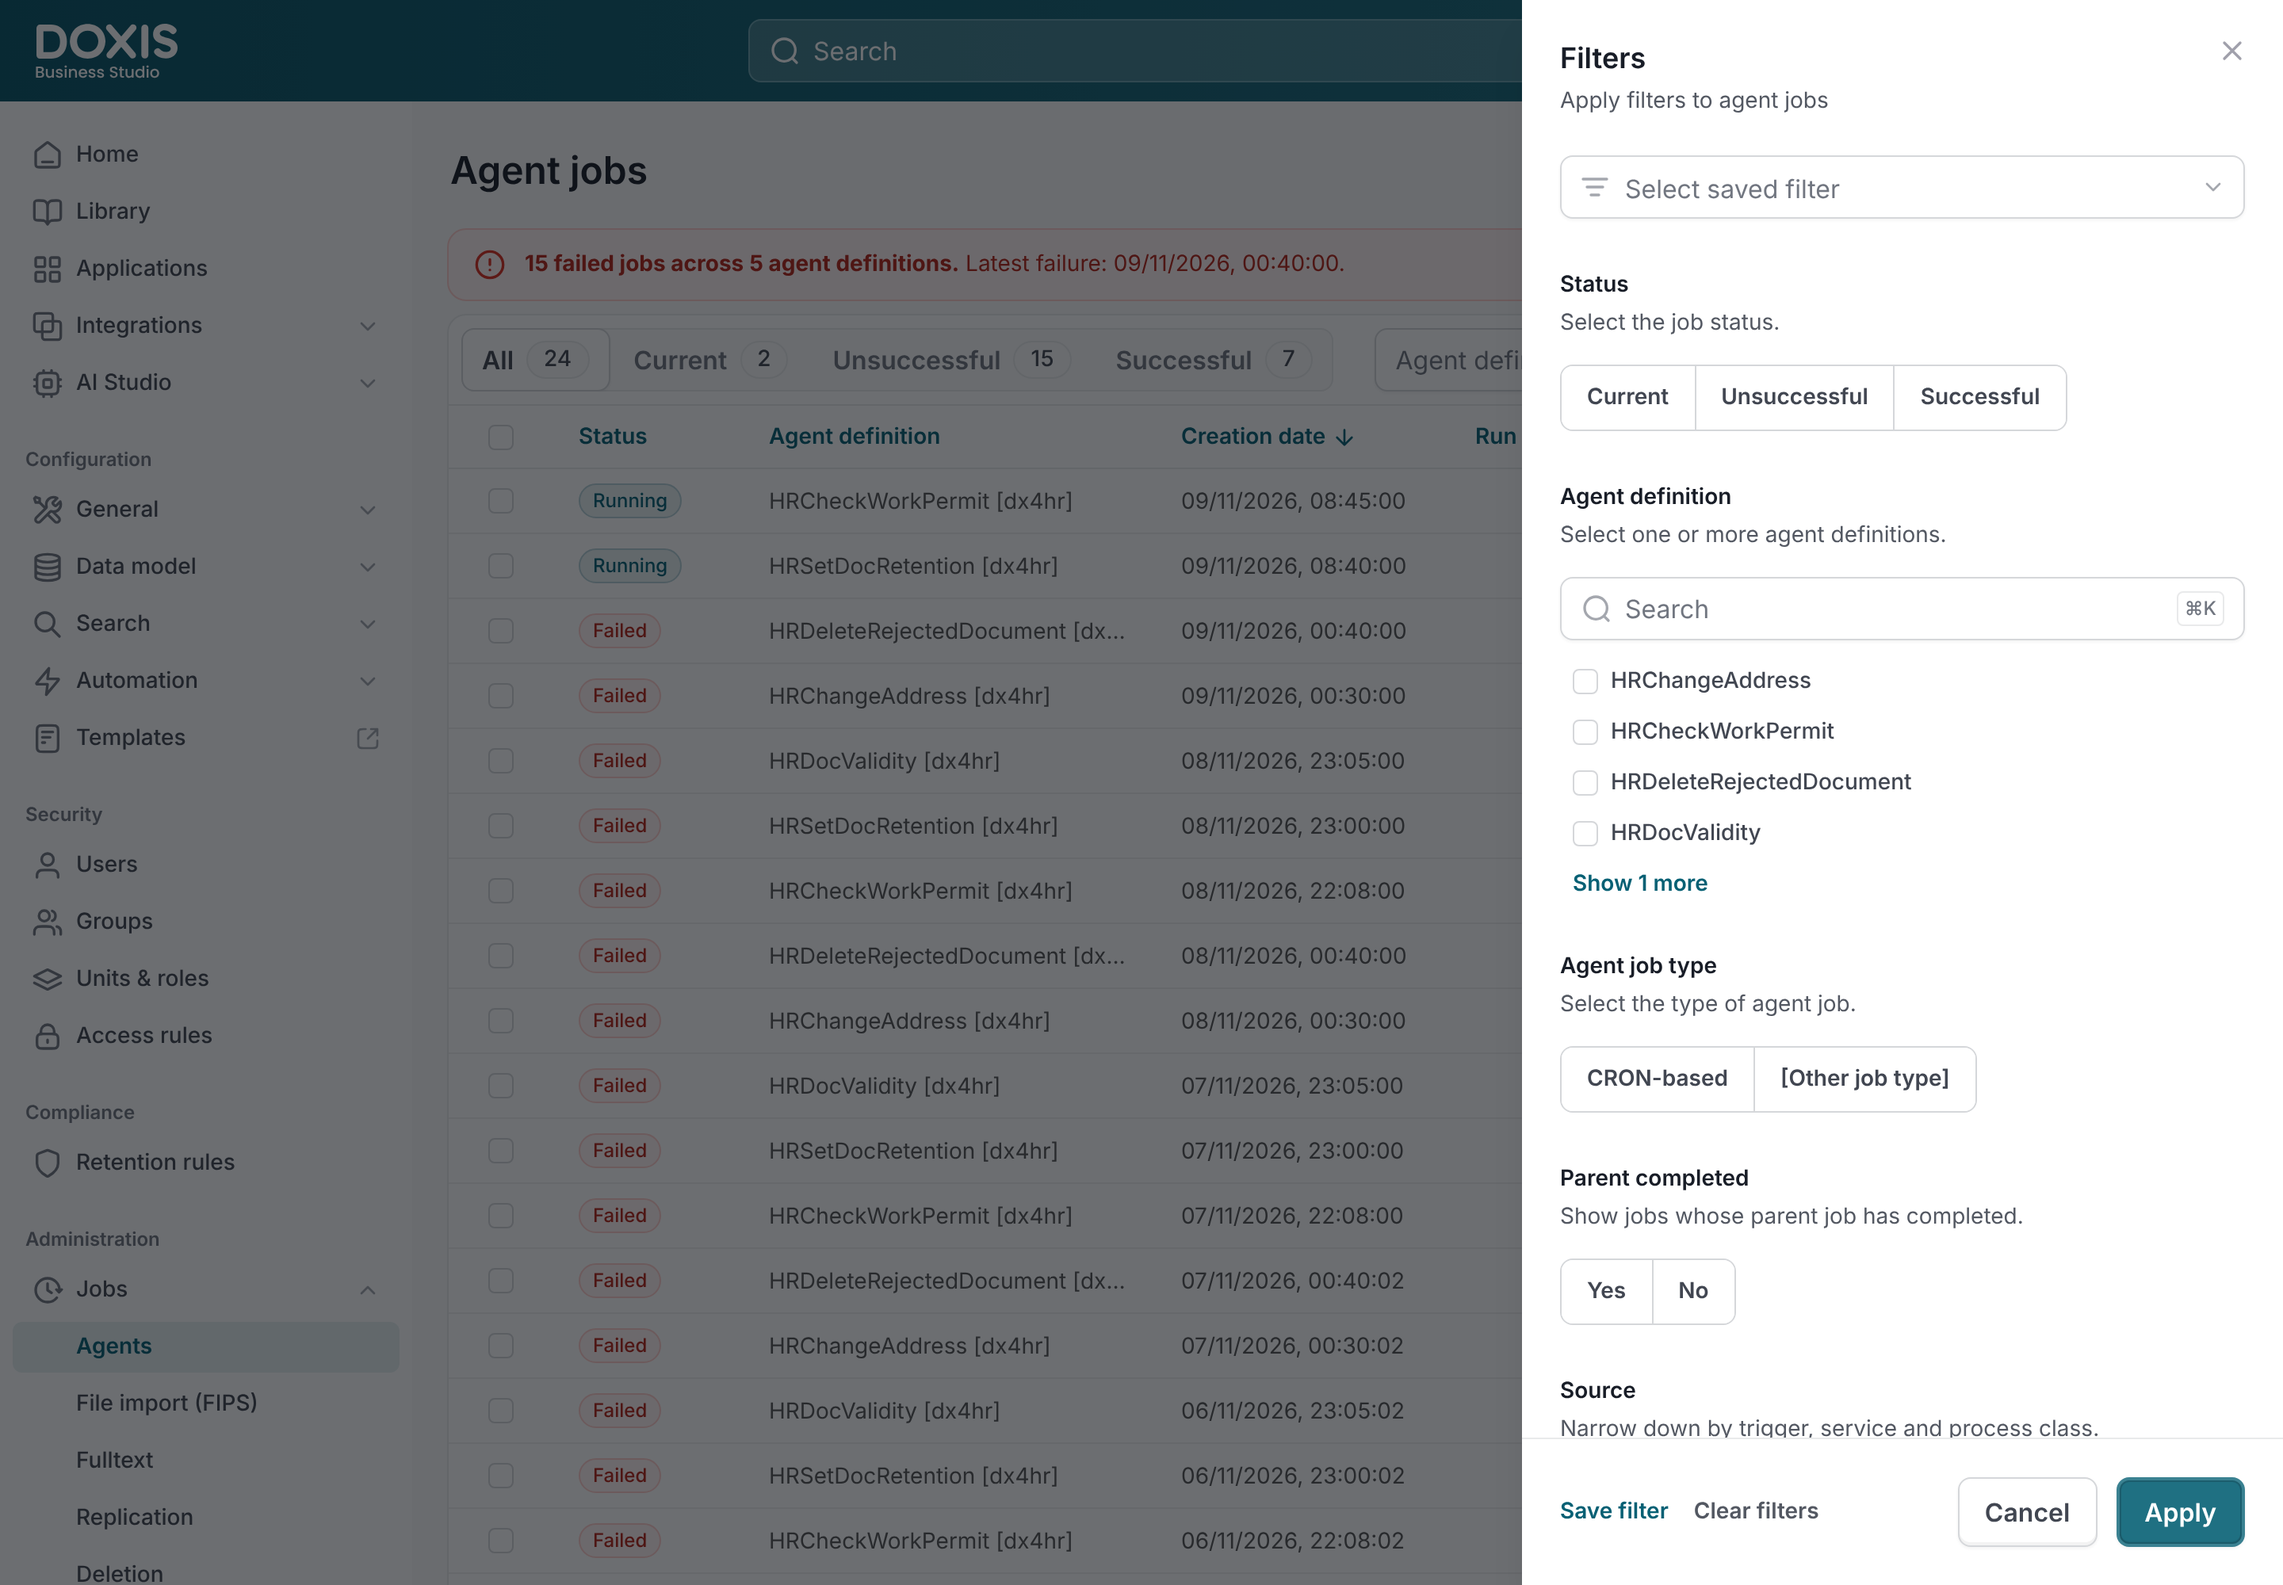
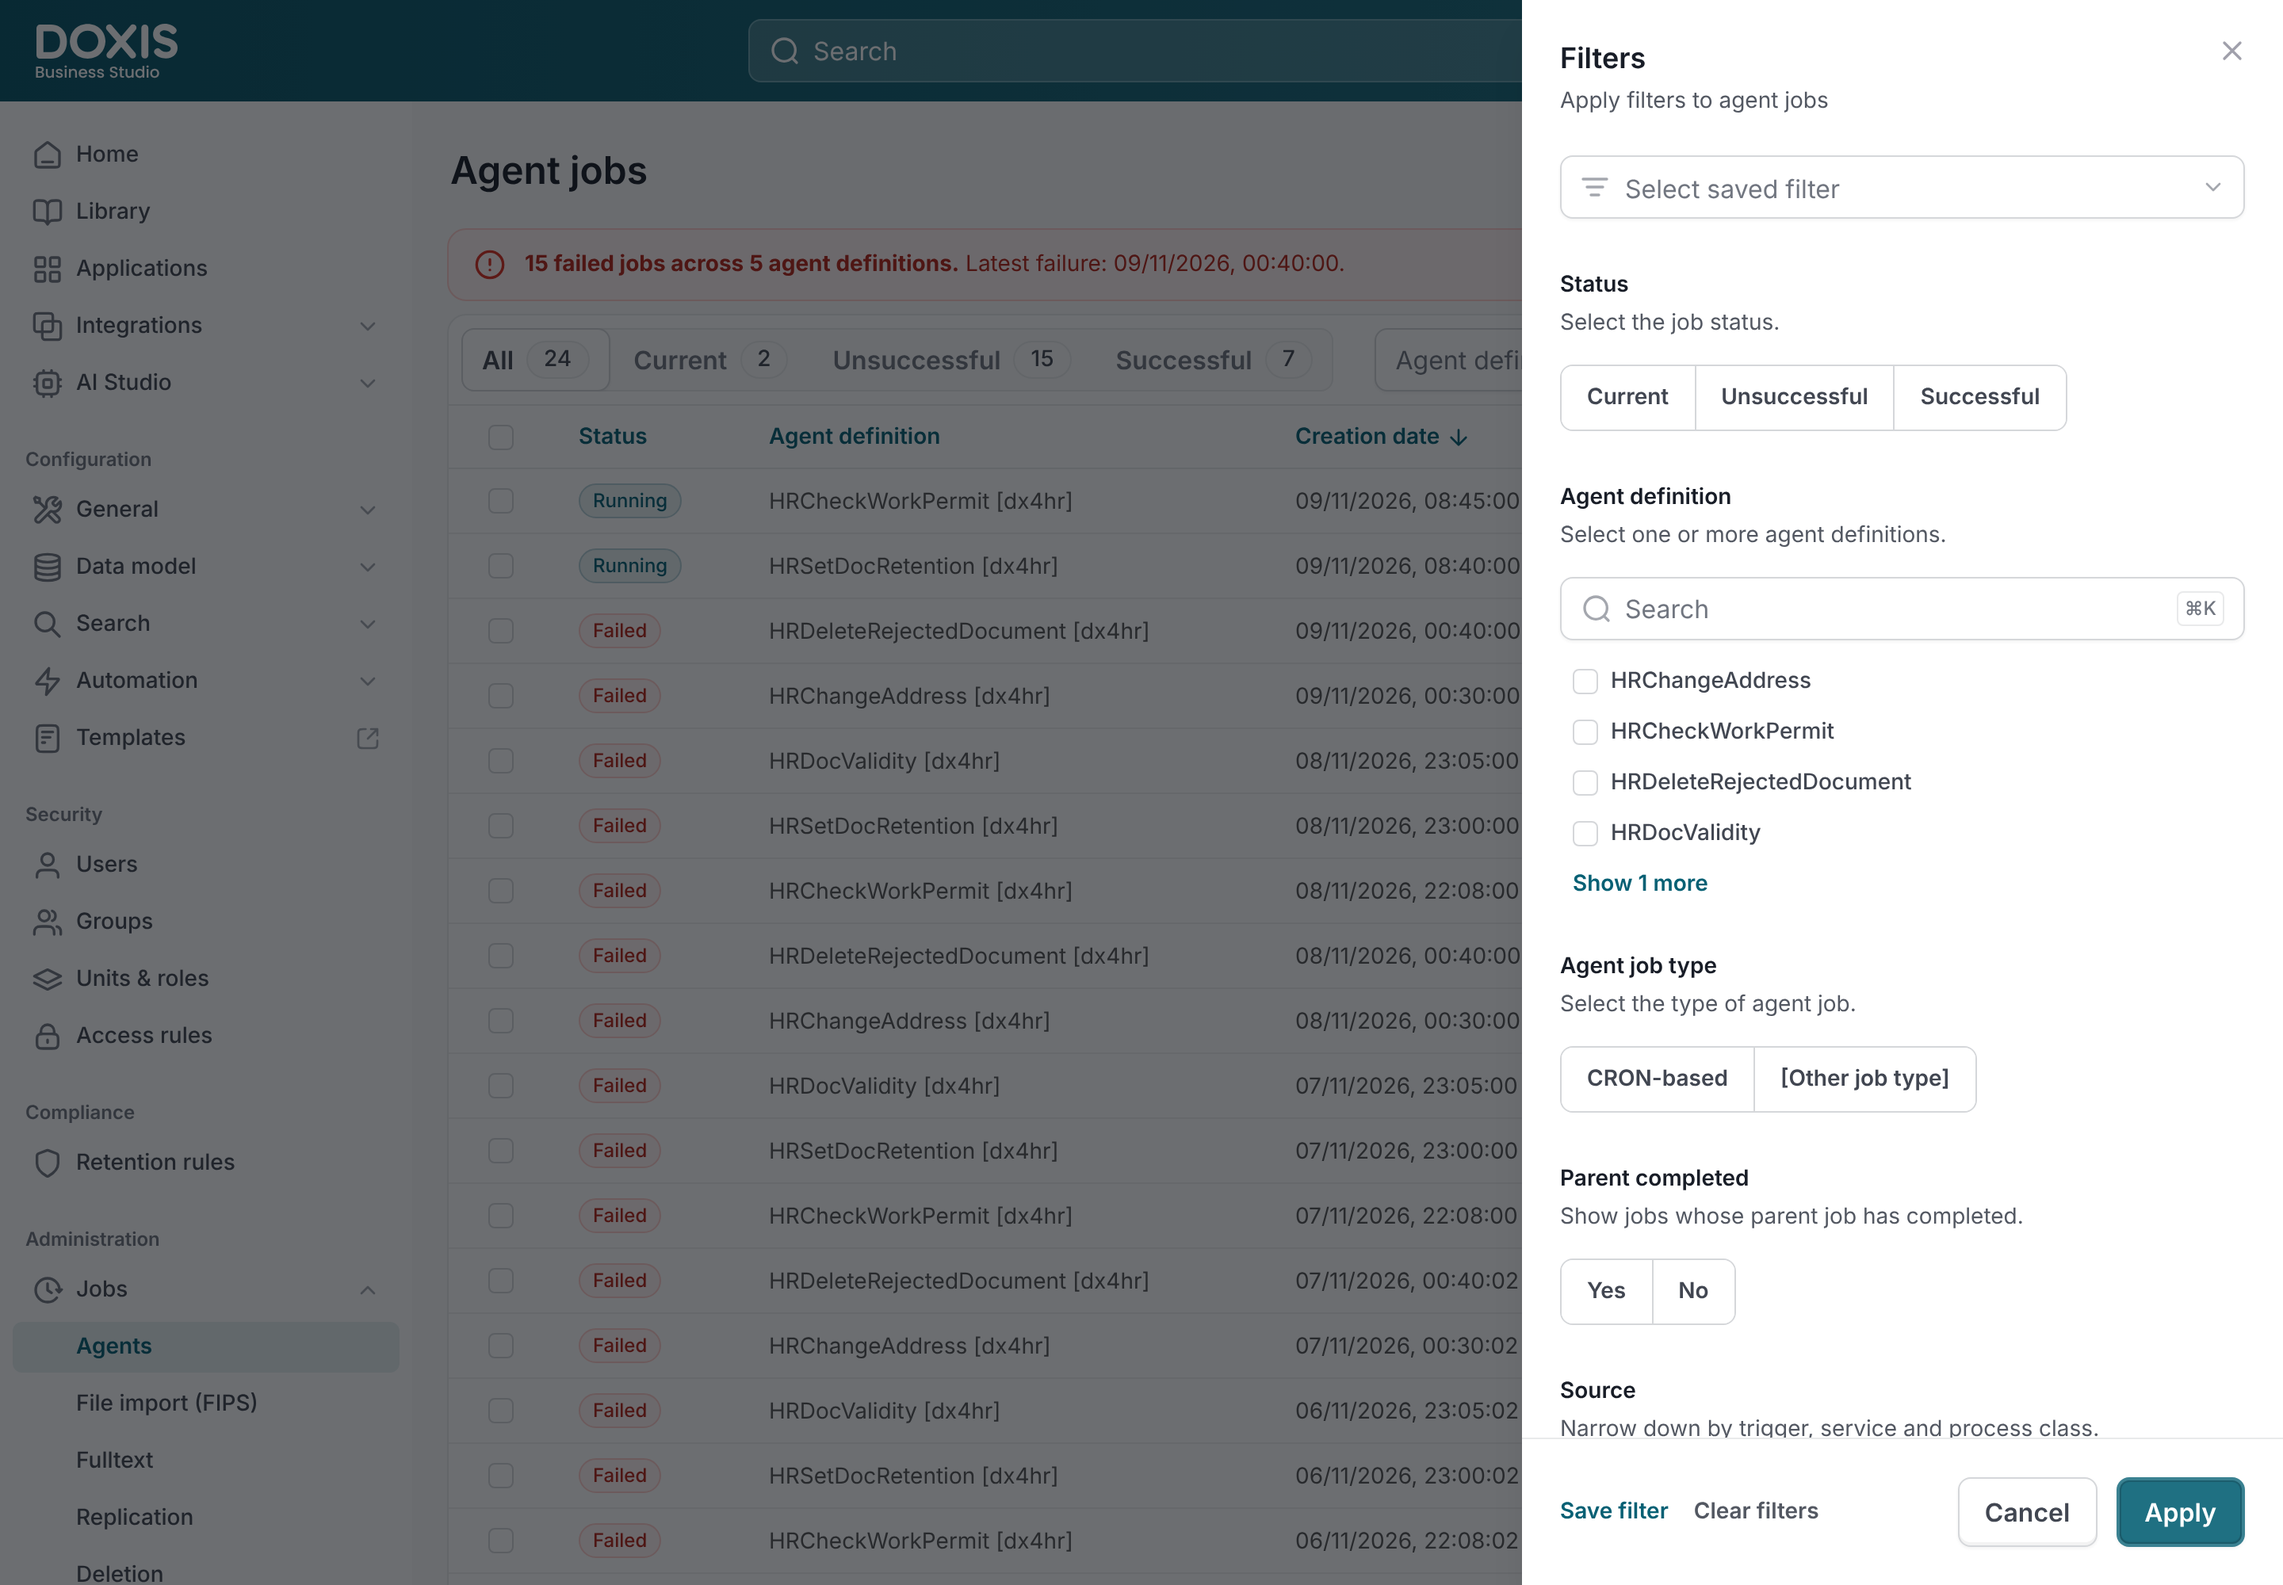
Add files via upload

diff --git a/js/app.js b/js/app.js
@@ -188,10 +188,6 @@
         '<div class="td num c-run"><span class="mlabel">Run time</span>' + (j.ms == null ? '–' : j.ms + '<span class="mlabel" style="margin:0 0 0 2px">ms</span>') + '</div>' +
         '<div class="td num c-restarts"><span class="mlabel">Restarts</span>' + j.restarts + '</div>' +
         '<div class="td num c-exec"><span class="mlabel">Executions</span>' + j.execs + '</div>' +
-        '<div class="td c-actions"><div class="row-actions">' +
-          (j.status === 'failed' ? '<button type="button" title="Restart job" aria-label="Restart ' + esc(j.def) + ' job" data-action="row-restart" data-v="' + j.id + '">' + icon('refresh-cw-05', 18) + '</button>' : '') +
-          '<button type="button" aria-label="Show details" aria-expanded="' + op + '" data-action="row-open" data-v="' + j.id + '">' + icon(op ? 'chevron-up' : 'chevron-down', 18) + '</button>' +
-        '</div></div>' +
       '</div>';
     if (op) {
       html += '<div class="details"><dl>' +
@@ -215,7 +211,7 @@
       '<div class="th cbcell"><input type="checkbox" class="cb" data-action="select-all"' + (allSel ? ' checked' : '') + ' aria-label="Select all visible jobs"></div>' +
       '<div class="th">Status</div><div class="th">Agent definition</div>' +
       '<div class="th"><button class="th-sort" data-action="seq" data-v="' + (state.sortDesc ? 'asc' : 'desc') + '" aria-label="Sort by creation date, currently ' + (state.sortDesc ? 'newest first' : 'oldest first') + '">Creation date' + icon(state.sortDesc ? 'arrow-down' : 'arrow-up', 16) + '</button></div>' +
-      '<div class="th num">Run time [ms]</div><div class="th num">Automatic restarts</div><div class="th num">Execution count</div><div class="th"><span class="sr-only">Actions</span></div></div>';
+      '<div class="th num">Run time [ms]</div><div class="th num">Automatic restarts</div><div class="th num">Execution count</div></div>';
 
     var body;
     if (!rows.length) {
@@ -313,11 +309,9 @@
 
   function viewToast() {
     if (!state.toast) return '';
-    var info = !!state.toast.info;
-    return '<div class="toast" role="status">' + (info ? icon('alert-circle', 20, 'info') : icon('check-circle', 20, 'ok')) +
-      '<div class="body"><strong>' + esc(state.toast.title) + '</strong><span>' +
-        (info ? 'There is nothing to restart. Change the filters to include failed jobs.' : 'The jobs will start with the next agent cycle.') + '</span>' +
-      '<div class="acts"><button class="link-btn gray" data-action="toast-dismiss">Dismiss</button>' + (info ? '' : '<button class="link-btn" data-action="undo">Undo</button>') + '</div></div>' +
+    return '<div class="toast" role="status">' + icon('check-circle', 20, 'ok') +
+      '<div class="body"><strong>' + esc(state.toast.title) + '</strong><span>The jobs will start with the next agent cycle.</span>' +
+      '<div class="acts"><button class="link-btn gray" data-action="toast-dismiss">Dismiss</button><button class="link-btn" data-action="undo">Undo</button></div></div>' +
       '<button class="close" data-action="toast-dismiss" aria-label="Close">' + icon('x-close', 20) + '</button></div>';
   }
 
@@ -342,7 +336,7 @@
       '<div class="layout">' + viewSidebar() +
         '<main class="main">' +
           '<div class="page-header"><h1>Agent jobs</h1>' +
-            '<button class="btn btn-primary" data-action="restart-matching">' + icon('refresh-cw-05') +
+            '<button class="btn btn-primary" data-action="restart-matching"' + (failedMatching.length ? '' : ' disabled') + '>' + icon('refresh-cw-05') +
               '<span class="label-long">Restart all that match the filter criteria</span><span class="label-short">Restart ' + failedMatching.length + ' failed jobs</span></button></div>' +
           '<div class="content">' + banner +
             '<section class="card" aria-label="Agent jobs table">' + viewToolbar(d) + viewBulk() + viewTable(d) + viewFooter(d) + '</section>' +
@@ -406,9 +400,7 @@
         return queue(d.rows.filter(function (j) { return j.def === v && j.status === 'failed'; }).map(function (j) { return j.id; }));
       case 'restart-matching':
         d = compute();
-        var ids = d.rows.filter(function (j) { return j.status === 'failed'; }).map(function (j) { return j.id; });
-        if (!ids.length) return set({ toast: { title: 'No failed jobs match the filter criteria', info: true } });
-        return queue(ids);
+        return queue(d.rows.filter(function (j) { return j.status === 'failed'; }).map(function (j) { return j.id; }));
       case 'restart-selected':
         return queue(Object.keys(state.selected).map(Number).filter(function (id) { return (state.overrides[id] || window.SEED[id][0]) === 'failed'; }));
       case 'clear-selection': return set({ selected: {} });

diff --git a/css/styles.css b/css/styles.css
@@ -157,7 +157,7 @@ a { color: var(--brand-dark); }
 /* ---------- Table ---------- */
 .table-wrap { overflow-x: auto; border-top: 1px solid var(--border-subtle); font-family: var(--font-table); }
 .table { min-width: 920px; }
-.tr { display: grid; grid-template-columns: 66px 120px minmax(220px, 1fr) 180px 132px 160px 144px 72px; align-items: center; min-height: 40px; }
+.tr { display: grid; grid-template-columns: 66px 120px minmax(220px, 1fr) 180px 132px 160px 144px; align-items: center; min-height: 40px; }
 .thead { border-bottom: 1px solid var(--border-subtle); color: var(--brand-dark); font-weight: 600; }
 .thead .th-sort { border: 0; background: transparent; padding: 0; color: inherit; font-weight: 600; display: inline-flex; align-items: center; gap: 4px; }
 .td, .th { padding: 0 16px; min-width: 0; }
@@ -268,7 +268,7 @@ a { color: var(--brand-dark); }
 @media (max-width: 900px) {
   .table { min-width: 0; }
   .thead { display: none; }
-  .tr.data { grid-template-columns: 32px 1fr auto; grid-template-areas: "cb def act" "cb status status" "cb created created" "cb meta meta"; row-gap: 6px; padding: 12px 8px 12px 12px; align-items: start; }
+  .tr.data { grid-template-columns: 32px 1fr auto; grid-template-areas: "cb def def" "cb status status" "cb created created" "cb meta meta"; row-gap: 6px; padding: 12px 8px 12px 12px; align-items: start; }
   .tr.data .td { padding: 0; }
   .tr.data .cbcell { grid-area: cb; justify-content: flex-start; align-items: flex-start; padding-top: 2px; background: transparent !important; }
   .tr.data .c-status { grid-area: status; }

diff --git a/README.md b/README.md
@@ -39,8 +39,7 @@ Open `index.html` in a browser (double-click works), or serve the folder with `n
 - Text search on agent definition names
 - Sort menu (Creation date or grouped by Agent definition, descending or ascending, search restrictions)
 - Filters drawer (Status, Agent definition, Agent job type, Parent completed, Source, Creation date, ID & text search) with Apply, Cancel and Clear
-- Row selection, bulk restart, single-row restart, restart all matching failed jobs, Undo toast
-- Row details (start/end date, synchronous, group, sequence number, priority)
+- Row selection, bulk restart, restart all matching failed jobs, Undo toast
 - Grouped view by agent definition
 
 Fields without sample data (Trigger, Agent Runtime Service, Process class, dates, IDs) are layout only.
